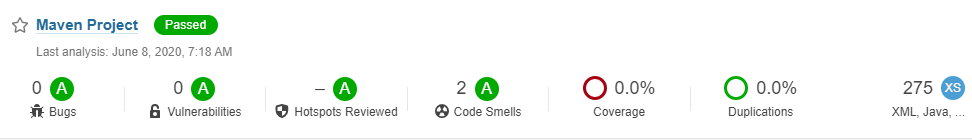
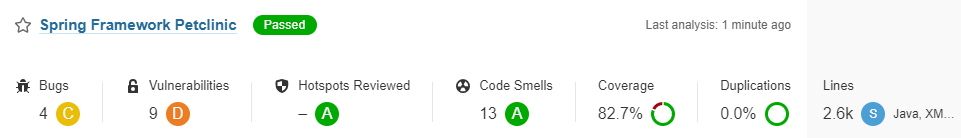
Rewritting First_jobs.md with project petclinic

diff --git a/FIRST_JOBS.md b/FIRST_JOBS.md
@@ -1,5 +1,5 @@
 # First Jobs
-We are going to set up our first jobs    
+We are going to set up our first Jenkins jobs    
 
 ## echo "Test" 
 Go to jenkins dashboard, select New Item 
@@ -23,17 +23,20 @@ Name: Maven 3.6.3
 install automatically from Apache select version 3.6.3  
 Hit apply and save
 
-## Hello world using Maven 
-New Item -> Name Hello-world-maven, select  maven project and ok   
-select git as a source code management   
-in your github tab fork and clone this repo https://github.com/crunchy-devops/hello-world.git
-Copy and paste your own repo hello-world    
+## Petclinic using Maven 
+New Item -> Name petclinic-maven, select  maven project and ok   
+select git as a source code management  
+Replace the git repo with your repo spring-framework-petclinic
+```
+  https://github.com/crunchy-devops/spring-framework-petclinic.git 
+```
+Copy and paste your own repo    
 Build Root POM: pom.xml file     
 Goals are: clean install package   
 Hit apply and save   
 and press Build now 
 
-## Hello world Q/A with Sonar 
+## Petclinic Q/A with Sonar 
 manage jenkins -> manage plugins  tab Available     
 filter sonar and select Sonarqube Scanner  
 and install without restart  
@@ -61,7 +64,7 @@ In the server authentication token select SonarToken
 Press apply and save 
 
 Hit New Item,  enter a name hello-world-sonar  
-copy from hello-world-maven  
+copy from petclinic-maven  
 hit ok  
 Tick in **build environment 'Prepare SonarQube Scanner environment'**      
 Change Goals as ``` clean package sonar:sonar -Dsonar.host_url=$SONAR_HOST_URL```      
@@ -69,7 +72,7 @@ Press apply and save
 Hit Build Now  
 
 ### How to check the code quality with Sonar
-Type ```http://<your_ip_address:19000>``` in your browser  
+Type ```http://<your_ip_address:32520>``` in your browser  
 Login using user: admin  password : admin  
 See the result by selecting Projects
   
@@ -79,7 +82,7 @@ See the result by selecting Projects
 ## Deploy your war file to repository Nexus
 ### Configure Nexus
 Open a browser tab :  
-http://<your-ip_address:18081/  
+http://<your-ip_address:32510/  
 get nexus token access     
 ```shell script
 docker exec -i jenkins-pic_nexus_1 cat /nexus-data/admin.password
@@ -89,16 +92,17 @@ Tick enable anonymous access
 Go to the wheel in the menu , select repositories   
 Select maven-releases   
 go to Hosted   
-Set Allow redeploy  # allow the same version to be redeployed 
+Set Allow redeploy  # allow the same version to be redeployed , not set on production environment !!!
 Press Save 
 
 ## Create your Job
-Go to your first hello-world-maven   
+Go to your first petclinic-maven   
 select configure     
 and press post build actions    
 select archive the artifacts, in the text-edit files to archive type ```**/*.war```
 Press apply and save      
-Build now this job again  
+Build this job again
+
 ![build_artifacts](screenshots/build_artifacts.png)
  
 Go to manage jenkins -> Plugin Manager -> Tab available  
@@ -116,31 +120,33 @@ Press Add
 select the credentials in Sonatype Nexus configuration    
 Check with a Test Connection    
 and then click Apply and Save  
-Create a job, hello_world_nexus, and choose freestyle project, click ok  
-Go to Build, select copy artifacts from hello-world-maven   
+
+Create a job, petclinic_nexus, and choose freestyle project, click ok  
+Go to Build, select copy artifacts from petclinic-maven   
 Set artifacts to copy to ```**/*.war ```  
-add an another build step , Nexus Repository Manage Publisher      
+add another build step , Nexus Repository Manage Publisher      
 Nexus instances:  Nexus  
 Nexus Repo: maven-release   
 add Package maven   
 Group and artifact are coming from your project pom.xml  
 Here is :  
-Group: com.example.maven-project
-Artifact: maven-project
-Version: 1.1  
+Group: org.springframework.samples  
+artifact: spring-framework-petclinic  
+Version: 1.0
 Packaging: war  
 Add artifact Path:  
-File Path:  webapp/target/webapp.war  
+File Path: target/petclinic.war 
 Apply and Save  
 Build Now  
 
 ### Find the saved artifact
-And check in Nexus http://<your_ip>:18081/  
-Login admin and xxxxx 
+And check in Nexus http://<your_ip>:32510/  
+Login admin and password xxxxx 
 Select in the left  Repositories, click on release and browser down to find your war file
 
+![nexus](screenshots/nexus_repository.png)
 
-
+## Go to the file DEPLOYMENT.md
 
 
 

diff --git a/README.md b/README.md
@@ -9,7 +9,7 @@ This Github Repo contains all relevant files for setting up an entirely CI/CD sa
 This sandbox is only available on Linux.
 
 ## Pre-requisite
-You need a VM  ubuntu 20.04, 16GB of RAM, 6 cores, and 60 GB of SSD.
+You need a VM  ubuntu 20.04, 16GB of RAM, 4/6 cores, and 60 GB of SSD.
 
 How to proceed ?  
 ## First install Docker 
@@ -77,13 +77,14 @@ Here is an overview of all tools:
 | SonarQube | http://<vm_ip default>:32520/             | admin/admin |
 | Nexus | http://<vm_ip default>:32510/nexus        | admin/use a token and set your own password |
 | Selenium Grid | http://<vm_ip default>:30044/grid/console | no login required |
- | Jmeter | no required | no login required |
+ | Jmeter | no required                               | no login required |
+ | Portainer | **https**://<vm_ip default>:32126         | enter a password at first log in |
 | Hello-world Test | http://<vm_ip default>:30090/webapp       | no login required |
 | Petclinic-Test | http://<vm_ip default>:30190/petclinic    | no login required |
 
+## Go to FIRST_JOB.md file 
 
 
-* FIRST_JOBS.md
 * IntellijIDEA.mnd
 * DEPLOYMENT.md
 * PIPELINE_SCRIPT.md
